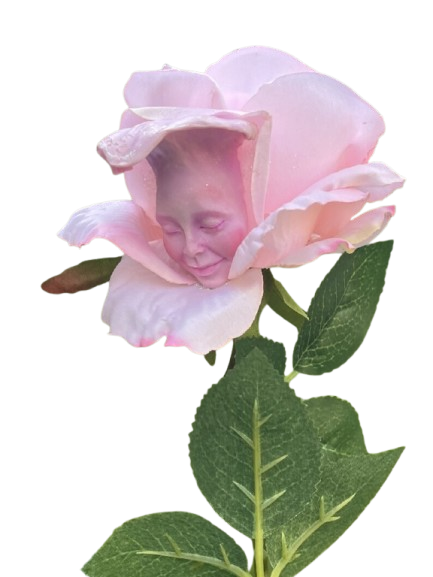
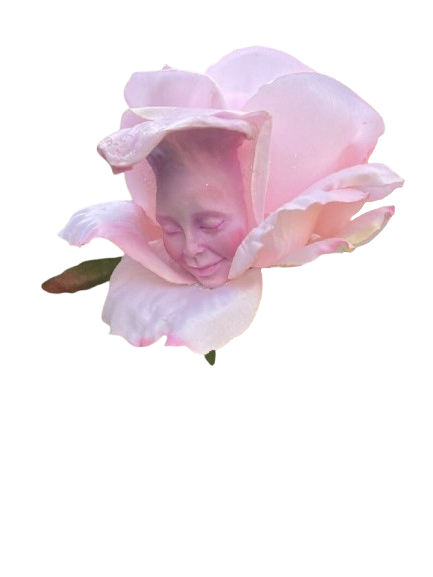
rearrange

diff --git a/style.css b/style.css
@@ -24,6 +24,20 @@ body {
     height: auto;
 }
 
+.gallery-img.group1 {
+    top: 25%;
+    left: 4%;
+    width: 1200px;
+    height: auto;
+}
+
+.gallery-img.group2 {
+    top: 39%;
+    left: 47%;
+    width: 800px;
+    height: auto;
+}
+
 /* individual placements */
 .gallery-img.alicefly {
     top: 10%;
@@ -55,8 +69,8 @@ body {
 }
 
 .gallery-img.plant5 {
-    bottom: 20%;
-    right: 82%;
+    top: 44%;
+    right: 79%;
     width: 500px;
     height: auto;
 }
@@ -76,19 +90,21 @@ body {
 }
 
 .gallery-img.rabbit {
-    top: 65%;
-    left: 83%;
+    bottom: 73%;
+    left: 24.5%;
+    width: 400px;
+    height: auto;
 }
 
 .gallery-img.cheshire {
-    top: 40%;
-    left: 22%;
+    top: 46%;
+    left: 24%;
     opacity: 0.5;
 }
 
 .gallery-img.plant10 {
-    bottom: 20%;
-    right: 32%;
+    top: 57%;
+    right: 2%;
 }
 
 .gallery-img.cat {
@@ -102,6 +118,10 @@ body {
     left: 5%;
 }
 
+.gallery-img.club {
+    top: 40%;
+    left: 50%;
+}
 
 
 .img-buttons {
@@ -129,22 +149,23 @@ body {
 /* Individual placements */
 .img-btn.where {
     position: absolute;
-    top: 1%;
-    left: 10%;
+    bottom: 69%;
+    right: 85%;
+    width: 400px;
+    height: auto;
 }
 
 .img-btn.when {
     position: absolute;
-    top: 43%;
-    left: 41%;
-    opacity: 0.8;
+    top: 46%;
+    right: 72%;
 }
 
 .img-btn.who {
     position: absolute;
-    top: 57%;
-    right: 77%;
-    width: 600px;
+    top: 50%;
+    left: 44%;
+    width: 700px;
     height: auto;
 }
 
@@ -158,8 +179,8 @@ body {
 
 .img-btn.what {
     position: absolute;
-    top: 61%;
-    left: 66%;
+    top: 65%;
+    left: 68%;
     filter: brightness(0.7);
     width: 350px;
     height: auto;

diff --git a/index.html b/index.html
@@ -17,12 +17,15 @@
             <!--img src="images/plant2.png" alt="plant2" class="gallery-img plant2"-->
             <!--img src="images/plant3.png" alt="plant3" class="gallery-img plant3"-->
             <img src="images/plant4.png" alt="plant4" class="gallery-img plant4">
+            <img src="images/Group1.png" alt="1" class="gallery-img group1">
+            <img src="images/Group2.png" alt="2" class="gallery-img group2">
+            <img src="images/club.png" alt="club" class="gallery-img club">
             <img src="images/plant5.png" alt="plant5" class="gallery-img plant5">
             <img src="images/plant7.png" alt="plant7" class="gallery-img plant7">
             <img src="images/plant8.png" alt="plant8" class="gallery-img plant8">
             <img src="images/White_Rabbit.png" alt="white-rabbit" class="gallery-img rabbit">
             <img src="images/chesh.png" alt="cheshire" class="gallery-img cheshire">
-            <img src="images/plant10.png" alt="plant10" class="gallery-img plant10">
+            <!--img src="images/plant10.png" alt="plant10" class="gallery-img plant10"-->
             <!--img src="images/cat.png" alt="cat" class="gallery-img cat"-->
         </div>
 
